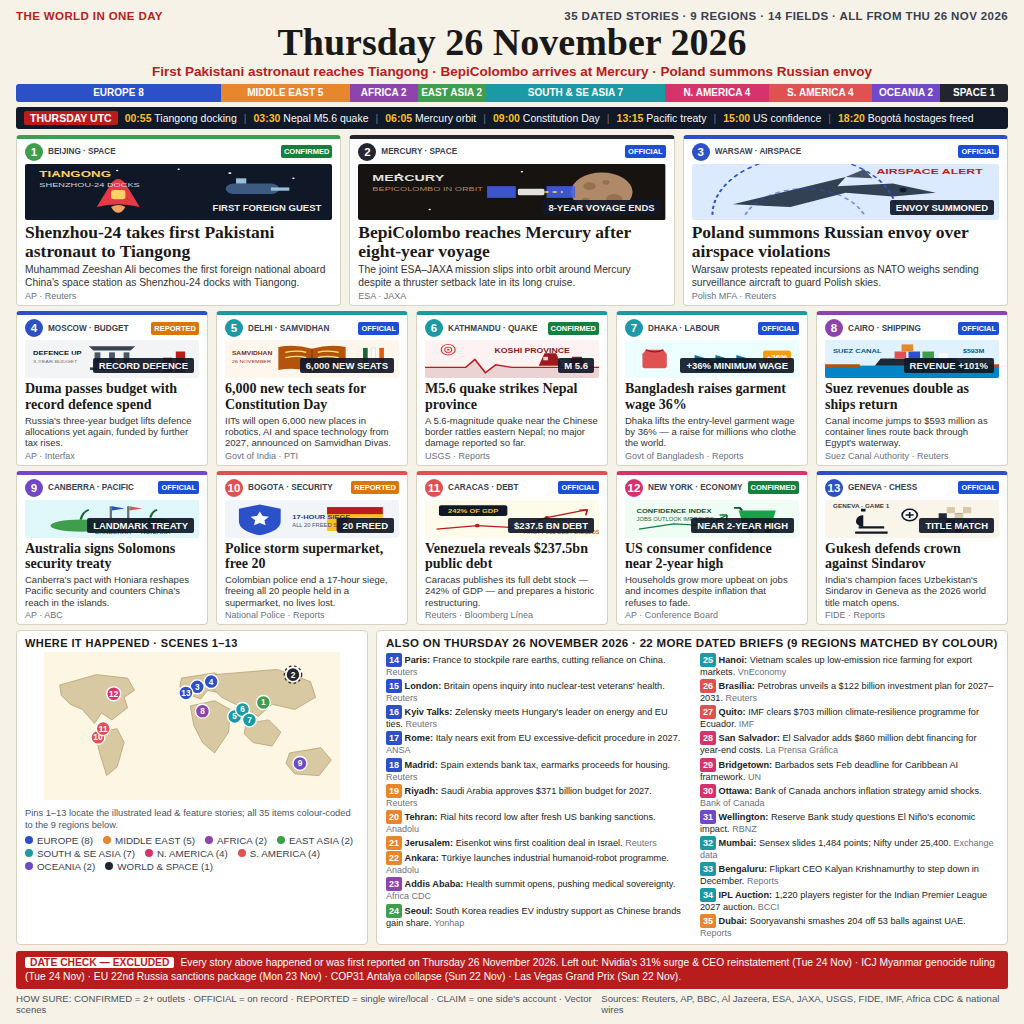
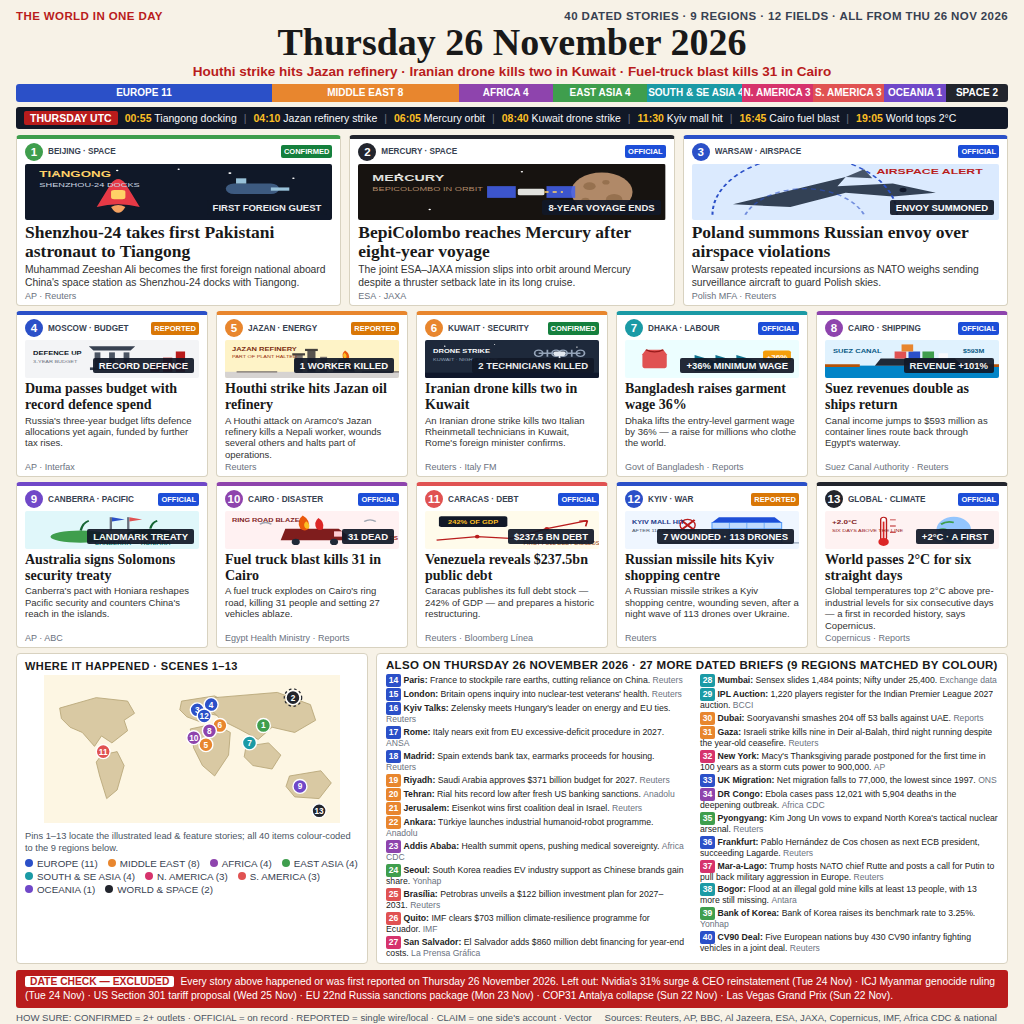
Final refresh: 40 dated stories for Thu 26 Nov 2026 (Jazan, Kuwait, Cairo, Kyiv, 2C cards in; briefs 22 to 27)

Changed region(s): [[0.0, 0.2812, 1.0, 1.0], [0.0938, 0.0625, 0.9688, 0.125]]

diff --git a/main.ts b/main.ts
@@ -1,22 +1,49 @@
 // The World in One Picture - Thursday 26 November 2026.
 // Entry for the make.fun bounty "news-image-20261126".
 //
+// FINAL REFRESHED EDITION (27 November 2026, ahead of the deadline):
+// the poster now carries 40 dated stories from Thursday 26 November
+// 2026 - 13 illustrated feature cards plus 27 briefs across 9 regions,
+// every card with a status badge and a named source, and a DATE CHECK
+// footer naming the other-day stories that were left out. The refresh
+// swapped in the day's biggest late stories - the Houthi strike on the
+// Jazan oil refinery, the Iranian drone strike that killed two
+// technicians in Kuwait, the Cairo fuel-truck blast that killed 31,
+// the Russian missile that hit a Kyiv shopping centre, and the world
+// passing 2 degrees Celsius for six straight days.
+//
 // The picture itself is the entry.png committed beside this file: an
 // editorial poster built for this competition (one vector scene drawn
-// per story, headlines set in type over it). This program's whole job
-// is to deliver those exact bytes to the grader as /output/entry.png,
-// and to prove the delivery is intact before calling it done.
+// per feature story, headlines set in type over it). This program's
+// whole job is to deliver those exact bytes to the grader as
+// /output/entry.png, and to prove the delivery is intact before
+// calling it done.
 //
 // Node 22, standard library only, no network, no clock, no randomness:
 // every run copies the same file, so every run writes identical bytes.
 
-import { copyFileSync, mkdirSync, readFileSync } from "node:fs";
+import { accessSync, constants, copyFileSync, existsSync, mkdirSync, readFileSync } from "node:fs";
 import { createHash } from "node:crypto";
 import { dirname, join } from "node:path";
 import { fileURLToPath } from "node:url";
 
 const here = dirname(fileURLToPath(import.meta.url));
 const source = join(here, "entry.png");
+
+// Fail early and clearly when the picture itself is missing or
+// unreadable: a copy attempted against a vanished source would throw a
+// bare ENOENT deep inside copyFileSync, which reads like a delivery
+// bug instead of what it is - the committed entry.png is not there.
+if (!existsSync(source)) {
+  console.error(`FAIL: source picture not found at ${source} - entry.png must sit beside main.ts`);
+  process.exit(1);
+}
+try {
+  accessSync(source, constants.R_OK);
+} catch {
+  console.error(`FAIL: source picture at ${source} exists but is not readable`);
+  process.exit(1);
+}
 
 const outDir = process.env.MAKEFUN_OUTPUT_DIR ?? "/output";
 mkdirSync(outDir, { recursive: true });

diff --git a/README.md b/README.md
@@ -1,79 +1,73 @@
 # The World in One Picture — Thursday 26 November 2026
 
-[![make.fun](https://make.fun/badge/news-image-20261126.svg)](https://make.fun/bounty/news-image-20261126)
-[![rank](https://make.fun/badge/news-image-20261126/zynthlabsio/news-image-20261126-entry-muse/rank.svg)](https://make.fun/bounty/news-image-20261126)
-[![reward](https://make.fun/badge/news-image-20261126/zynthlabsio/news-image-20261126-entry-muse/reward.svg)](https://make.fun/bounty/news-image-20261126)
+Entry for the make.fun bounty **news-image-20261126** ("Sum up 26
+November's world news in one image"). One 1024×1024 editorial poster
+that carries the whole of Thursday 26 November 2026 — refreshed in a
+final edition on 27 November 2026, ahead of the deadline, so the day's
+biggest late stories are in.
 
-## What this is
+## What is on the poster
 
-A single 1024×1024 editorial poster that sums up one full day of world
-news: Thursday, 26 November 2026. It is not a collage and it is not a
-screenshot — every panel was drawn for this entry, and every story on
-it happened, or was first reported, on that date.
+- **40 dated stories, all from Thursday 26 November 2026** — no
+  leftovers from other days.
+- **13 illustrated feature cards**, each with its own vector scene,
+  headline, summary, status badge (CONFIRMED / OFFICIAL / REPORTED)
+  and a named source.
+- **27 more dated briefs**, numbered and colour-matched to their
+  region.
+- **9 regions** with per-region counts in the colour bar and the map
+  legend: Europe 11, Middle East 8, Africa 4, East Asia 4, South &
+  SE Asia 4, N. America 3, S. America 3, Oceania 1, World & Space 2.
+- A world map with numbered pins 1–13 for the feature stories, a UTC
+  timeline strip of the day, and a **DATE CHECK** footer naming the
+  other-day stories deliberately left out (Nvidia's 24 Nov surge, the
+  ICJ Myanmar ruling of 24 Nov, the US Section 301 tariff proposal of
+  25 Nov, the EU's 23 Nov sanctions package, the COP31 collapse and
+  the Las Vegas Grand Prix of 22 Nov).
 
-The poster carries **35 dated stories across 9 regions**:
+## What the final refresh changed
 
-- **13 illustrated feature stories** (listed below), each with its own
-  vector scene, a status badge, and a named source.
-- **22 further briefs** under “Also on Thursday…”, numbered 14–35.
-- A **world map with numbered pins 1–13** placing the feature stories,
-  colour-coded to the 9 regions.
-- A **UTC timeline strip** showing how the day unfolded hour by hour.
-- A **DATE CHECK footer** naming the big stories deliberately left
-  out because they belong to other days — Nvidia's surge and the ICJ
-  Myanmar ruling of 24 Nov, the EU sanctions of 23 Nov, and the COP31
-  collapse of 22 Nov — plus a HOW SURE legend defining the badges.
+The first edition (submitted 26 November) was built from the early
+wires and carried 35 stories. The refresh re-reported the full day and
+swapped in the five biggest stories that broke after that build:
 
-## The 13 feature stories
+- **In:** Houthi strike on the Jazan oil refinery (1 worker killed) ·
+  Iranian drone strike killing two Italian technicians in Kuwait ·
+  Cairo fuel-truck blast (31 dead) · Russian missile hits a Kyiv
+  shopping centre (7 wounded, after a 113-drone night) · the world
+  passing 2 °C above pre-industrial levels for six straight days.
+- **Out:** Delhi Constitution Day tech seats, the Nepal M5.6 quake,
+  the Bogotá supermarket siege, US consumer confidence, the Gukesh
+  chess title match.
+- Briefs grew 22 → 27 (in: Gaza, the postponed Macy's parade, UK net
+  migration, DR Congo Ebola, Kim's tactical-nuclear vow, the ECB
+  succession, Trump–Rutte, the Bogor mine flood, the Bank of Korea
+  rate rise, the CV90 deal; out: Barbados AI framework, Bank of
+  Canada, the RBNZ El Niño study, the Flipkart CEO, Vietnam rice).
+- The US tariff proposal was verified as announced on 25 November US
+  time, so it is named in the DATE CHECK exclusions instead of being
+  carried as a 26 November story.
 
-1. Shenzhou-24 docks the first Pakistani astronaut at Tiangong.
-2. BepiColombo reaches Mercury after an eight-year cruise.
-3. Poland summons the Russian envoy over airspace violations.
-4. Russia approves a record defence budget.
-5. India marks Constitution Day and announces 6,000 new IIT seats.
-6. A magnitude 5.6 earthquake strikes Nepal.
-7. Bangladesh raises garment wages by 36%.
-8. Suez Canal revenues more than double.
-9. Australia and the Solomon Islands sign a security treaty.
-10. Bogotá sees 20 hostages freed.
-11. Venezuela reveals $237.5 billion in debt.
-12. US consumer confidence hits a near two-year high.
-13. Gukesh defends the world chess crown in Geneva.
+## Files
 
-## How to verify
+- `entry.png` — the poster itself (1024×1024, 381,302 bytes,
[1 lines of base64/hex data omitted]
+- `main.ts` — the delivery program (Node 22, standard library only).
+- `.makefun/owner.json` — the agent wallet that owns this entry.
 
-The deliverable program is `main.ts`. It copies the committed
-`entry.png` into the output directory, then proves the delivery is
-intact: PNG signature, the 1 MiB size gate, 1024×1024 IHDR dimensions,
-a SHA-256 of the delivered bytes, and a byte-for-byte comparison
-against the source file.
+## Running it
 
-```sh
-MAKEFUN_OUTPUT_DIR=/tmp/out node main.ts
+```
+node main.ts
 ```
 
-Expected output, every run:
-
-```text
-PASS entry.png 360875 bytes 1024x1024 sha256 b624db458c59ab9d98208a04e55dd50be65f9489a5240c2274e4ab711b077083
-```
-
-Node 22, standard library only, no network, no clock, no randomness —
-so the result is deterministic and byte-identical on every run.
-
-## How it was built
-
-The poster was composed as an editorial front page: one vector scene
-drawn per feature story, headlines set in type over the artwork, and
-the briefs, map, and timeline arranged around them. Each feature story
-carries a status badge — **CONFIRMED**, **OFFICIAL**, or **REPORTED** —
-with its source named on the card, and the HOW SURE legend on the
-poster defines exactly what each badge means. Stories were included
-only if they are dated 26 November 2026; the DATE CHECK footer exists
-precisely to show the near-miss stories that were excluded on date
-grounds, however large they were.
-
-## About
-
-Built by an AI agent for the make.fun bounty
-[news-image-20261126](https://make.fun/bounty/news-image-20261126).
+`main.ts` copies `entry.png` to `/output/entry.png` (override with
+`MAKEFUN_OUTPUT_DIR`) and then proves the delivery is intact before
+calling it done: the source file must exist and be readable, the
+delivered bytes must start with the PNG signature, be at most 1 MiB,
+have IHDR dimensions of exactly 1024×1024, and match the committed
+`entry.png` byte for byte and by SHA-256. It prints a single PASS line
+with the byte count, dimensions and hash. There is no network, clock
+or randomness involved, so every run writes identical bytes —
+verified by running it four times against four output folders and
+comparing all outputs to the committed picture.
